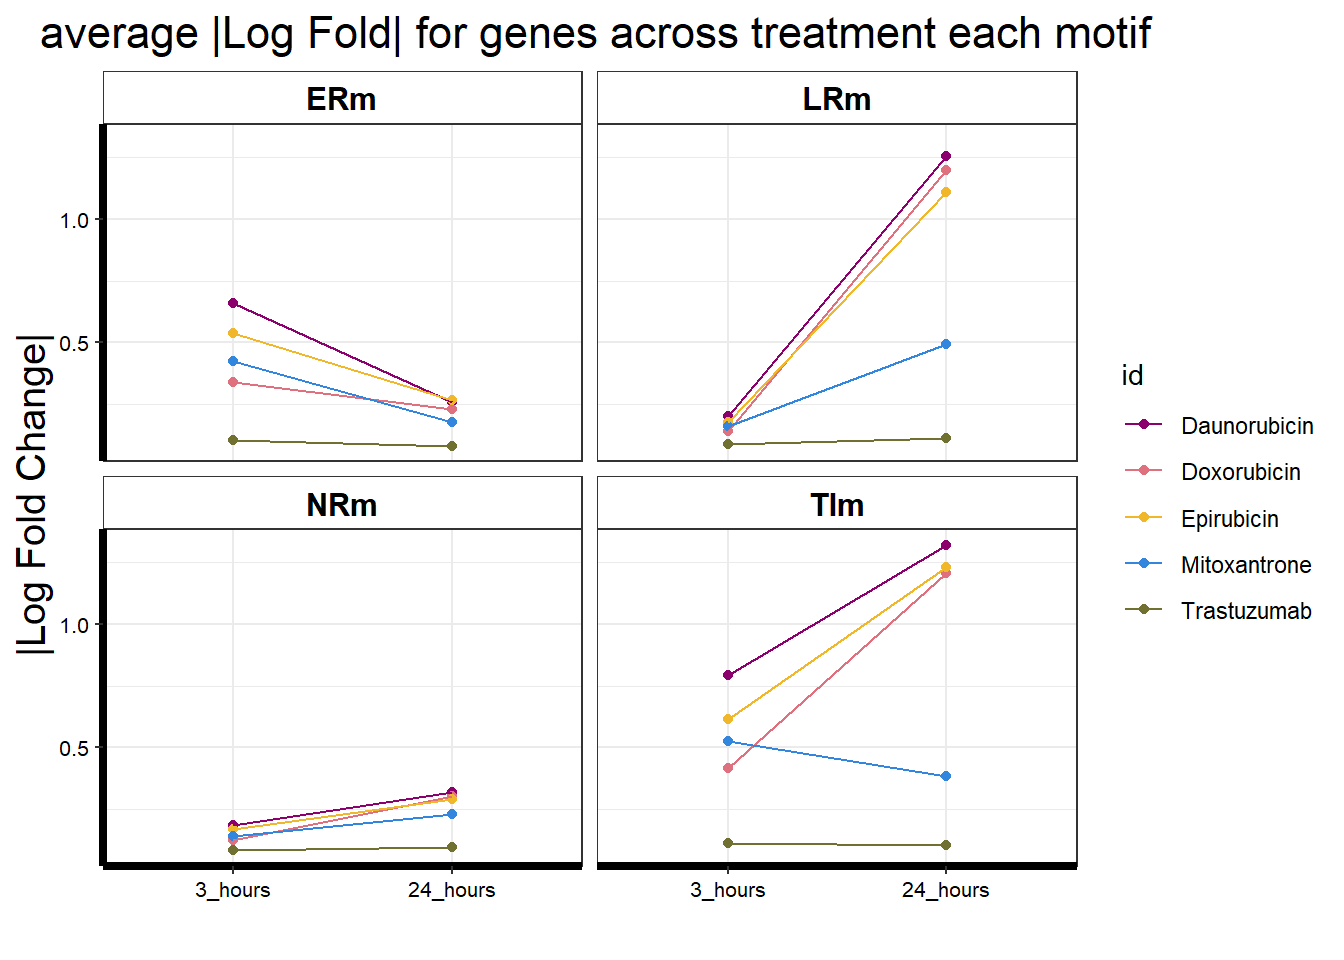
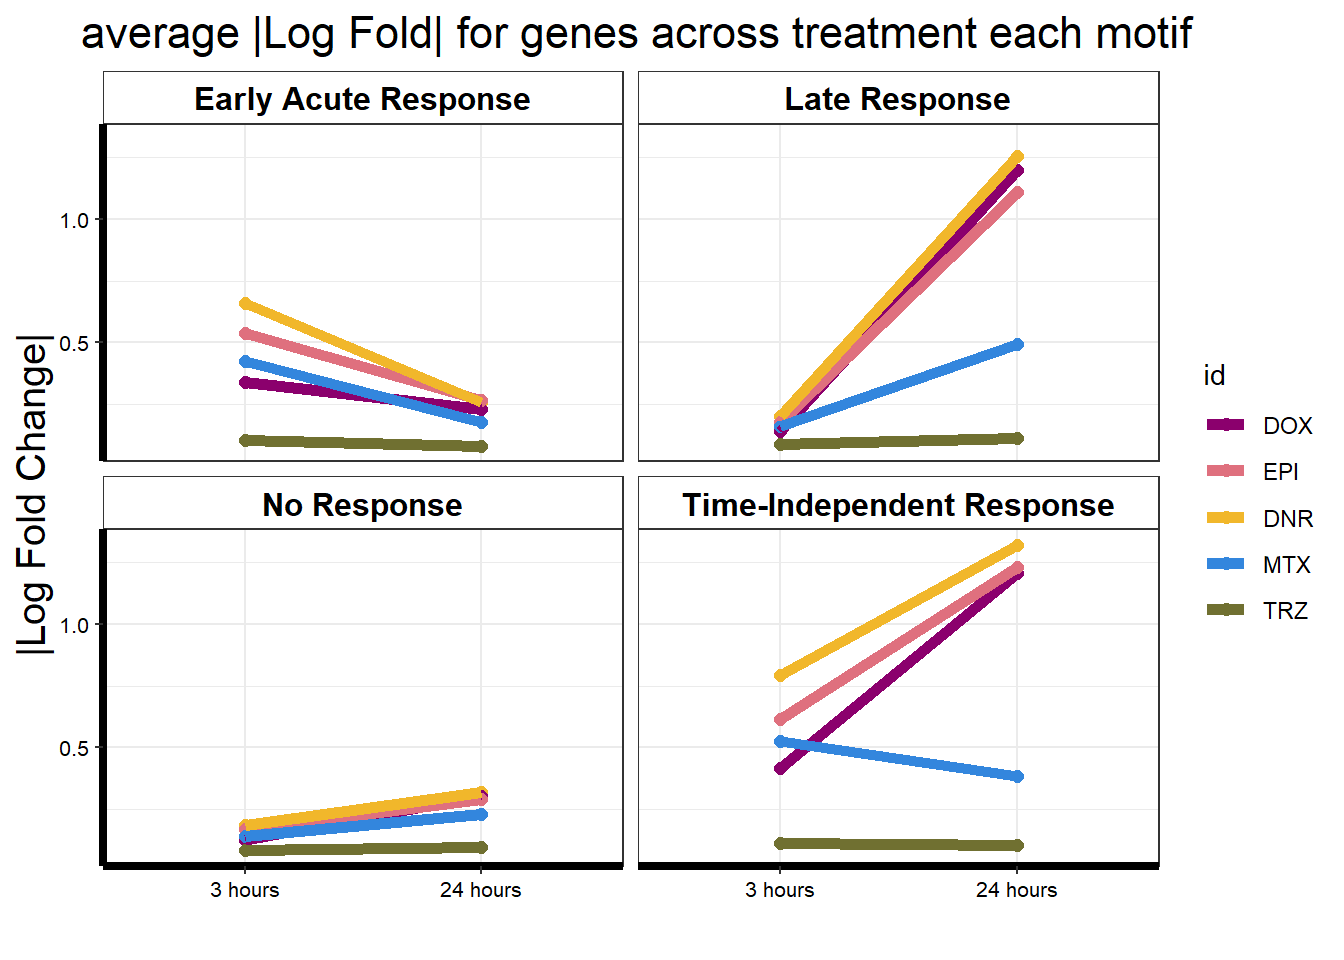
Build site.

diff --git a/docs/Figure6.html b/docs/Figure6.html
@@ -11,7 +11,7 @@
 
 <meta name="author" content="ERM" />
 
-<meta name="date" content="2023-06-27" />
+<meta name="date" content="2023-07-06" />
 
 <title>Figure 6</title>
 
@@ -361,7 +361,7 @@ div.tocify {
 
 <h1 class="title toc-ignore">Figure 6</h1>
 <h4 class="author">ERM</h4>
-<h4 class="date">2023-06-27</h4>
+<h4 class="date">2023-07-06</h4>
 
 </div>
 
@@ -390,7 +390,7 @@ class="glyphicon glyphicon-ok text-success" aria-hidden="true"></span>
 <div class="tab-content">
 <div id="summary" class="tab-pane fade in active">
 <p>
-<strong>Last updated:</strong> 2023-06-27
+<strong>Last updated:</strong> 2023-07-06
 </p>
 <p>
 <strong>Checks:</strong> <span
@@ -521,15 +521,15 @@ project makes it easier to run your code on other machines.</p>
 <div class="panel panel-default">
 <div class="panel-heading">
 <p class="panel-title">
-<a data-toggle="collapse" data-parent="#workflowr-checks" href="#strongRepositoryversionstrongahrefhttpsgithubcomreneeisnowhereCardiotoxicitytreeba2c143aa988d2f3af126f5177b691e1a3a78166targetblankba2c143a">
+<a data-toggle="collapse" data-parent="#workflowr-checks" href="#strongRepositoryversionstrongahrefhttpsgithubcomreneeisnowhereCardiotoxicitytree19105b62aa10e45829a4cea48dcd7e8d41bfa513targetblank19105b6a">
 <span class="glyphicon glyphicon-ok text-success"
 aria-hidden="true"></span> <strong>Repository version:</strong>
-<a href="https://github.com/reneeisnowhere/Cardiotoxicity/tree/ba2c143aa988d2f3af126f5177b691e1a3a78166" target="_blank">ba2c143</a>
+<a href="https://github.com/reneeisnowhere/Cardiotoxicity/tree/19105b62aa10e45829a4cea48dcd7e8d41bfa513" target="_blank">19105b6</a>
 </a>
 </p>
 </div>
 <div
[2 lines of base64/hex data omitted]
 class="panel-collapse collapse">
 <div class="panel-body">
 <p>
@@ -539,7 +539,7 @@ reproducibility.
 </p>
 <p>
 The results in this page were generated with repository version
-<a href="https://github.com/reneeisnowhere/Cardiotoxicity/tree/ba2c143aa988d2f3af126f5177b691e1a3a78166" target="_blank">ba2c143</a>.
+<a href="https://github.com/reneeisnowhere/Cardiotoxicity/tree/19105b62aa10e45829a4cea48dcd7e8d41bfa513" target="_blank">19105b6</a>.
 See the <em>Past versions</em> tab to see a history of the changes made
 to the R Markdown and HTML files.
 </p>
@@ -563,6 +563,7 @@ Ignored files:
     Ignored:    data/BC_cell_lines.csv
     Ignored:    data/CADGWASgene_table.csv
     Ignored:    data/CAD_geneset.RDS
+    Ignored:    data/CALIMA_Data/
     Ignored:    data/Clamp_Summary.csv
     Ignored:    data/Cormotif_24_k1-5_raw.RDS
     Ignored:    data/DAgostres24.RDS
@@ -581,6 +582,7 @@ Ignored files:
     Ignored:    data/GOIsig.csv
     Ignored:    data/GOplots.R
     Ignored:    data/GTEX_setsimple.csv
+    Ignored:    data/GTEX_sig24.RDS
     Ignored:    data/GTEx_gene_list.csv
     Ignored:    data/HFGWASgene_table.csv
     Ignored:    data/HF_geneset.RDS
@@ -592,8 +594,10 @@ Ignored files:
     Ignored:    data/LD50_05via.csv
     Ignored:    data/LDH48hoursdata.csv
     Ignored:    data/Mt24counts.txt
+    Ignored:    data/NoRespDEG_final.csv
     Ignored:    data/RINsamplelist.txt
     Ignored:    data/Seonane2019supp1.txt
+    Ignored:    data/TMMnormed_x.RDS
     Ignored:    data/TOP2Bi-24hoursGO_analysis.csv
     Ignored:    data/TR24counts.txt
     Ignored:    data/Top2biresp_cluster24h.csv
@@ -601,9 +605,11 @@ Ignored files:
     Ignored:    data/allexpressedgenes.txt
     Ignored:    data/allgenes.txt
     Ignored:    data/allmatrix.RDS
+    Ignored:    data/allmymatrix.RDS
     Ignored:    data/annotation_data_frame.RDS
     Ignored:    data/averageviabilitytable.RDS
     Ignored:    data/avgLD50.RDS
+    Ignored:    data/avg_LD50.RDS
     Ignored:    data/backGL.txt
     Ignored:    data/cormotif_3hk1-8.RDS
     Ignored:    data/cormotif_initalK5.RDS
@@ -668,6 +674,7 @@ Ignored files:
     Ignored:    data/sigVTR3.txt
     Ignored:    data/siglist.RDS
     Ignored:    data/siglist_final.RDS
+    Ignored:    data/siglist_old.RDS
     Ignored:    data/slope_table.csv
     Ignored:    data/supp_normLDH48.RDS
     Ignored:    data/supp_pca_all_anno.RDS
@@ -682,13 +689,21 @@ Untracked files:
     Untracked:  .RDataTmp
     Untracked:  .RDataTmp1
     Untracked:  .RDataTmp2
+    Untracked:  Doxorubicin_vehicle_3_24.csv
+    Untracked:  Doxtoplist.csv
+    Untracked:  GWAS_list_of_interest.xlsx
     Untracked:  OmicNavigator_learn.R
-    Untracked:  analysis/Figure7.Rmd
+    Untracked:  SigDoxtoplist.csv
+    Untracked:  analysis/export_to_excel.R
     Untracked:  code/DRC_plotfigure1.png
+    Untracked:  code/constantcode.R
     Untracked:  code/cpm_boxplot.R
     Untracked:  code/extracting_ggplot_data.R
     Untracked:  code/fig1plot.png
     Untracked:  code/figurelegeddrc.png
+    Untracked:  code/movingfilesto_ppl.R
+    Untracked:  code/pearson_extract_func.R
+    Untracked:  code/spearman_extract_func.R
     Untracked:  cormotif_probability_genelist.csv
     Untracked:  individual-legenddark2.png
     Untracked:  installed_old.rda
@@ -703,6 +718,7 @@ Untracked files:
     Untracked:  output/Volcanoplot_10
     Untracked:  output/Volcanoplot_10.RDS
     Untracked:  output/allfinal_sup10.RDS
+    Untracked:  output/gene_corr_fig9.RDS
     Untracked:  output/motif_ERrep.RDS
     Untracked:  output/motif_LRrep.RDS
     Untracked:  output/motif_NRrep.RDS
@@ -714,11 +730,25 @@ Untracked files:
     Untracked:  reneebasecode.R
 
 Unstaged changes:
-    Modified:   analysis/Cormotifcluster_analysis.Rmd
-    Modified:   analysis/DEG-GO_analysis.Rmd
+    Modified:   Cardiotoxicity.Rproj
+    Modified:   analysis/DRC_analysis.Rmd
     Modified:   analysis/Figure1.Rmd
-    Modified:   analysis/GTEx_genes.Rmd
-    Modified:   analysis/run_all_analysis.Rmd
+    Modified:   analysis/Figure9.Rmd
+    Modified:   analysis/GOI_plots.Rmd
+    Modified:   analysis/Supplementary_figures.Rmd
+    Modified:   analysis/other_analysis.Rmd
+    Modified:   output/DNRmeSNPs.RDS
+    Modified:   output/DNRreQTLs.RDS
+    Modified:   output/DOXmeSNPs.RDS
+    Modified:   output/DOXreQTLs.RDS
+    Modified:   output/EPImeSNPs.RDS
+    Modified:   output/EPIreQTLs.RDS
+    Modified:   output/GOI_genelist.txt
+    Modified:   output/MTXmeSNPs.RDS
+    Modified:   output/MTXreQTLs.RDS
+    Modified:   output/TNNI_LDH_RNAnormlist.txt
+    Modified:   output/knowles4.RDS
+    Modified:   output/knowles5.RDS
     Modified:   output/toplistall.csv
 
 </code></pre>
@@ -765,6 +795,40 @@ Message
 </tr>
 </thead>
 <tbody>
+<tr>
+<td>
+Rmd
+</td>
+<td>
+<a href="https://github.com/reneeisnowhere/Cardiotoxicity/blob/19105b62aa10e45829a4cea48dcd7e8d41bfa513/analysis/Figure6.Rmd" target="_blank">19105b6</a>
+</td>
+<td>
+reneeisnowhere
+</td>
+<td>
+2023-07-06
+</td>
+<td>
+update plots
+</td>
+</tr>
+<tr>
+<td>
+html
+</td>
+<td>
+<a href="https://rawcdn.githack.com/reneeisnowhere/Cardiotoxicity/89df05ba14a7fe616215f1327664a09983f03e94/docs/Figure6.html" target="_blank">89df05b</a>
+</td>
+<td>
+reneeisnowhere
+</td>
+<td>
+2023-06-27
+</td>
+<td>
+Build site.
+</td>
+</tr>
 <tr>
 <td>
 Rmd
@@ -834,7 +898,7 @@ library(ggsignif)
 library(RColorBrewer)
 library(broom)</code></pre>
 <pre class="r"><code>toplistall &lt;- readRDS(&quot;data/toplistall.RDS&quot;)
-siglist &lt;- readRDS(&quot;data/siglist.RDS&quot;)
+siglist &lt;- readRDS(&quot;data/siglist_final.RDS&quot;)
 list2env(siglist, envir = .GlobalEnv)</code></pre>
 <pre><code>&lt;environment: R_GlobalEnv&gt;</code></pre>
 <pre class="r"><code>cpmcounts &lt;- readRDS(&quot;data/cpmcount.RDS&quot;)
@@ -857,7 +921,7 @@ plot.new()
 legend(&#39;bottomleft&#39;,fill=myColors, legend =rev(c(&quot;0&quot;, &quot;0.1&quot;, &quot;0.2&quot;, &quot;0.3&quot;, &quot;0.4&quot;,  &quot;0.5&quot;, &quot;0.6&quot;, &quot;0.7&quot;, &quot;0.8&quot;,&quot;0.9&quot;, &quot;1&quot;)), box.col=&quot;white&quot;,title = &quot;Probability\nlegend&quot;, horiz=FALSE,title.cex=.8)</code></pre>
 <p><img src="figure/Figure6.Rmd/Cormotif-2.png" width="672" style="display: block; margin: auto;" />
 ## B. Pie chart of motifs</p>
-<pre class="r"><code>Set &lt;- c(&quot;Early Response&quot;, &quot;Time-Independent Response&quot;,&quot;Late Response&quot;, &quot;No Response&quot;)
+<pre class="r"><code>Set &lt;- c(&quot;Early Acute Response&quot;, &quot;Time-Independent Response&quot;,&quot;Late Response&quot;, &quot;No Response&quot;)
 gene_num &lt;- c(487,589,5596,7409)
 fills &lt;- c(&quot;#F8766D&quot;,  &quot;#00BFC4&quot;,&quot;#7CAE00&quot;, &quot;#C77CFF&quot;)
 
@@ -889,23 +953,31 @@ mean_lfc &lt;- lfc_nums %&gt;%
   mutate(TI=if_else(ENTREZID %in%motif_TI,&quot;y&quot;,&quot;no&quot;)) %&gt;%
   mutate(NR=if_else(ENTREZID %in%motif_NR,&quot;y&quot;,&quot;no&quot;)) %&gt;%
   mutate(id = as.factor(id)) %&gt;%
-  mutate(time=factor(time, levels=c(&quot;3_hours&quot;,&quot;24_hours&quot;))) %&gt;% 
+  mutate(time=factor(time, levels=c(&quot;3_hours&quot;,&quot;24_hours&quot;),labels=c(&quot;3 hours&quot;,&quot;24 hours&quot;))) %&gt;% 
   group_by(id,time) %&gt;% 
   mutate(absFC=abs(logFC)) %&gt;% 
   dplyr::select(id,time,absFC,ER,TI,LR,NR) %&gt;% 
-  dplyr::summarize(ERm=mean(absFC[ER==&quot;y&quot;]),TIm=mean(absFC[TI==&quot;y&quot;]),LRm=mean(absFC[LR==&quot;y&quot;]),NRm=mean(absFC[NR==&quot;y&quot;])) %&gt;% as.data.frame()
+  dplyr::summarize(ERm=mean(absFC[ER==&quot;y&quot;]),TIm=mean(absFC[TI==&quot;y&quot;]),LRm=mean(absFC[LR==&quot;y&quot;]),NRm=mean(absFC[NR==&quot;y&quot;])) %&gt;%
+  as.data.frame()
 
 
 mean_lfc %&gt;% 
-   mutate(time=factor(time, levels=c(&quot;3_hours&quot;,&quot;24_hours&quot;))) %&gt;% 
-  mutate(id=factor(id, levels=c(&quot;Daunorubicin&quot; ,&quot;Doxorubicin&quot;, &quot;Epirubicin&quot; , &quot;Mitoxantrone&quot; ,&quot;Trastuzumab&quot;))) %&gt;% 
-  pivot_longer(!c(id,time), names_to = &quot;Motif&quot;,values_to=&quot;meanLFC&quot;) %&gt;% 
+  ungroup() %&gt;% 
+  mutate(id=factor(id, 
+                   levels =c(&#39;DOX&#39;, &#39;EPI&#39;, &#39;DNR&#39;, &#39;MTX&#39;, &#39;TRZ&#39;, &#39;VEH&#39;))) %&gt;% 
+  pivot_longer(!c(id,time), names_to = &quot;Motif&quot;,
+               values_to=&quot;meanLFC&quot;) %&gt;%
+  mutate(Set=case_match(Motif,&quot;ERm&quot;~&quot;Early Acute Response&quot;,
+                        &quot;TIm&quot;~&quot;Time-Independent Response&quot;,
+                        &quot;LRm&quot;~&quot;Late Response&quot;,
+                        &quot;NRm&quot;~&quot;No Response&quot;,
+                        .default = Motif))%&gt;% 
   ggplot(., aes(x=time,y= meanLFC,col=id,group=id))+
-  geom_point()+
-  geom_line()+
+  geom_point(size=2)+
+  geom_line(size=2)+
   ggpubr::fill_palette(drug_pal_fact)+
   # guides(fill=guide_legend(title = &quot;Treatment&quot;))+
-  facet_wrap(~Motif)+
+  facet_wrap(~Set)+
   theme_bw()+
   xlab(&quot;&quot;)+
   scale_color_manual(values=drug_pal_fact)+
